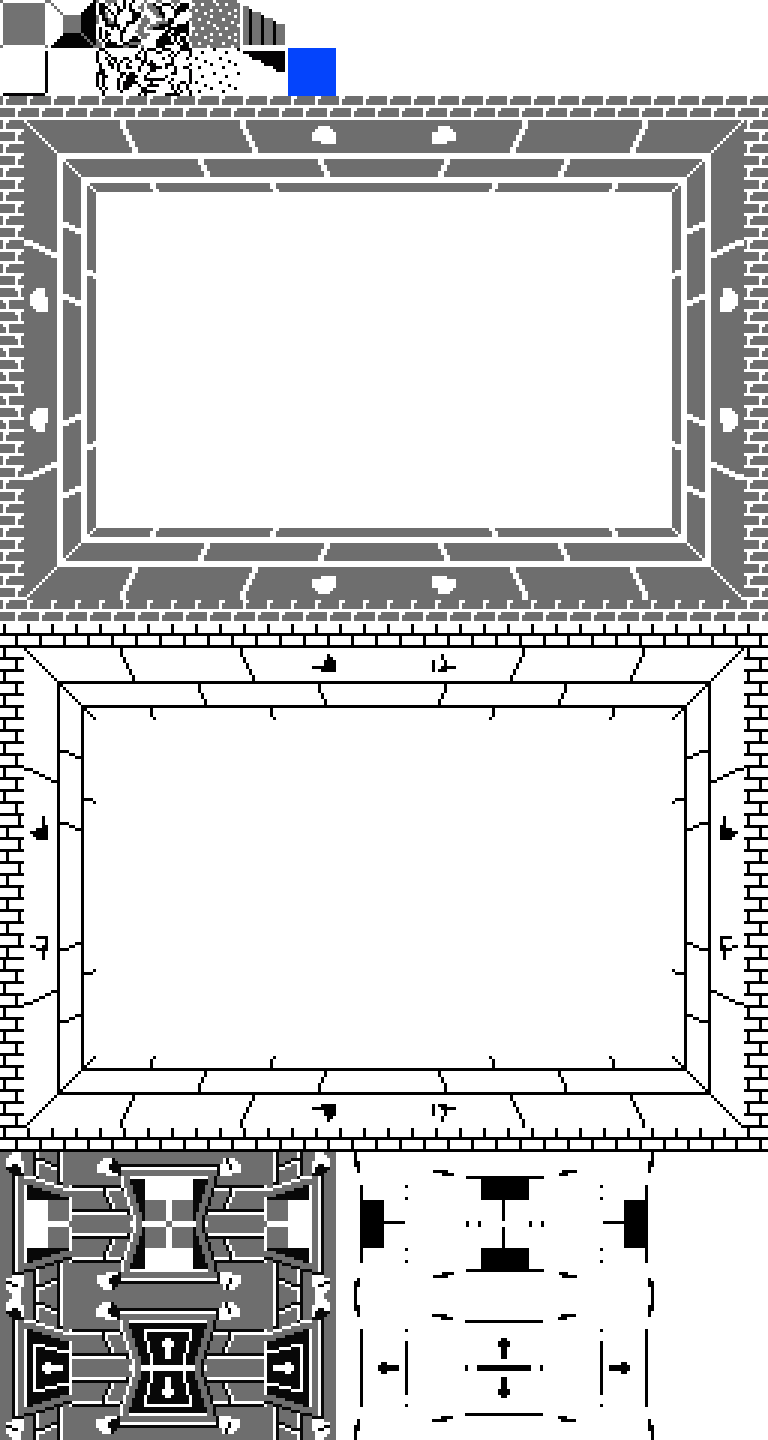
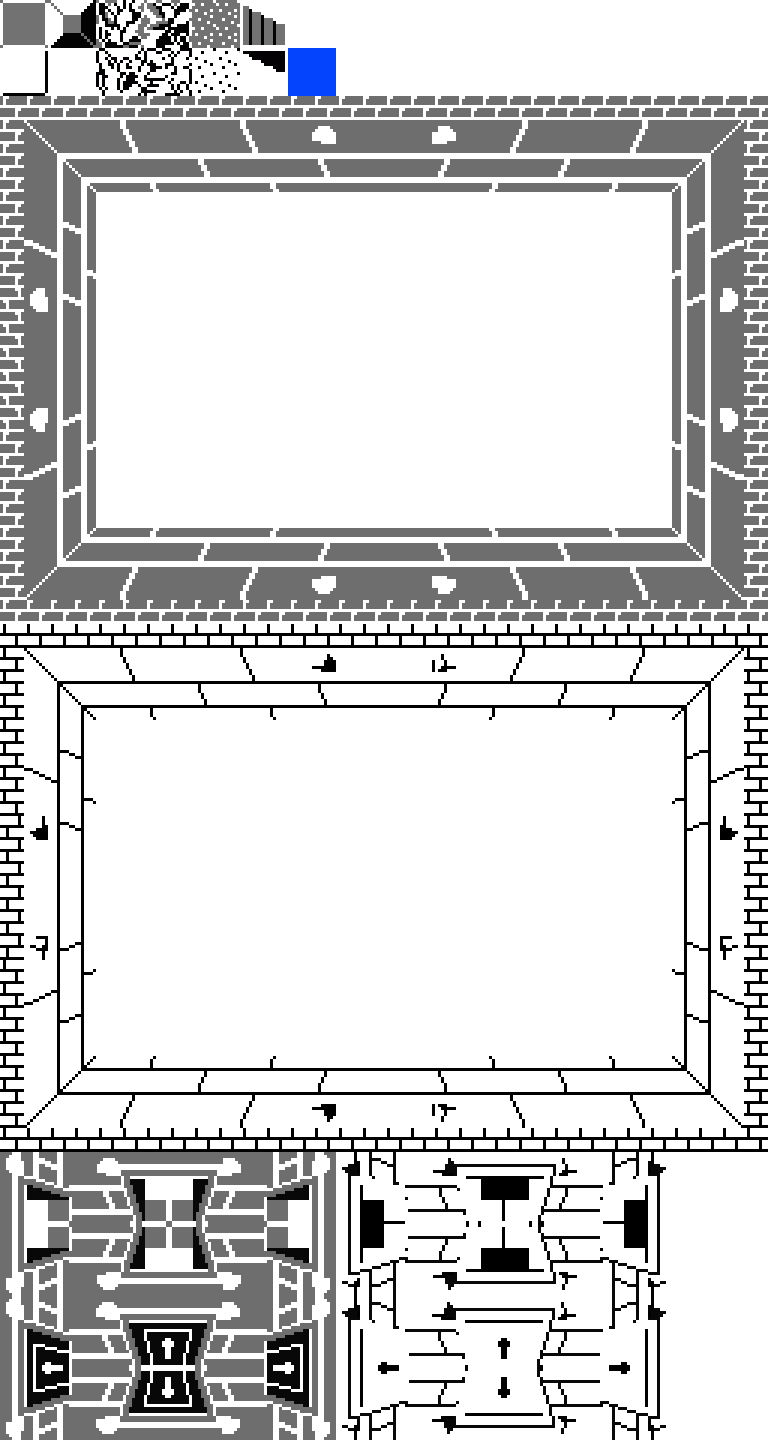
Fix door display
Lines from the walls bled through to the door images which was ugly.
Draw the doors last with a separate fill to fix this issue. Also, edit
the image to darken the lines for the door contrast images.

diff --git a/dist/randomzelda.js b/dist/randomzelda.js
@@ -883,7 +883,6 @@ RZ.Room.prototype = {
         
         context.drawImage(RZ.Assets.img.tiles, walls[0], walls[1], canvas.width, canvas.height, 0, 0, canvas.width, canvas.height);
         this.drawLayer(canvas, RZ.Assets.legend.tiles);
-        this.drawDoors(context, doors);
 
         context.fillStyle = RZ.Screen.color;
         context.globalAlpha = 0.5;
@@ -892,7 +891,7 @@ RZ.Room.prototype = {
 
         this.drawLayer(canvas, RZ.Assets.legend.tiles_contrast);
         context.drawImage(RZ.Assets.img.tiles, walls_contrast[0], walls_contrast[1], canvas.width, canvas.height, 0, 0, canvas.width, canvas.height);
-        this.drawDoors(context, doors_contrast);
+        this.drawDoors(context, doors, doors_contrast);
     },
 
     drawLayer: function (canvas, tiles) {
@@ -915,7 +914,13 @@ RZ.Room.prototype = {
         }
     },
 
-    drawDoors: function (context, doors_legend) {
+    drawDoors: function (context, doors, doors_contrast) {
+        this.drawDoorsLayer(context, doors);
+        this.drawDoorsFillLayer(context, doors);
+        this.drawDoorsLayer(context, doors_contrast);
+    },
+
+    drawDoorsLayer: function (context, doors_legend) {
         var sx, sy, dx, dy, width, height;
 
         for (var door in this.door) {
@@ -927,6 +932,24 @@ RZ.Room.prototype = {
                 width = doors_legend[door][this.door[door]][4];
                 height = doors_legend[door][this.door[door]][5];
                 context.drawImage(RZ.Assets.img.tiles, sx, sy, width, height, dx, dy, width, height);
+            }
+        }
+    },
+
+    drawDoorsFillLayer: function (context, doors_legend) {
+        var dx, dy, width, height;
+
+        for (var door in this.door) {
+            if (this.door[door] === 'open' || this.door[door] === 'locked') {
+                dx = doors_legend[door][this.door[door]][2];
+                dy = doors_legend[door][this.door[door]][3];
+                width = doors_legend[door][this.door[door]][4];
+                height = doors_legend[door][this.door[door]][5];
+
+                context.fillStyle = RZ.Screen.color;
+                context.globalAlpha = 0.5;
+                context.fillRect(dx, dy, width, height);
+                context.globalAlpha = 1.0;
             }
         }
     },

diff --git a/src/room.js b/src/room.js
@@ -45,7 +45,6 @@ RZ.Room.prototype = {
         
         context.drawImage(RZ.Assets.img.tiles, walls[0], walls[1], canvas.width, canvas.height, 0, 0, canvas.width, canvas.height);
         this.drawLayer(canvas, RZ.Assets.legend.tiles);
-        this.drawDoors(context, doors);
 
         context.fillStyle = RZ.Screen.color;
         context.globalAlpha = 0.5;
@@ -54,7 +53,7 @@ RZ.Room.prototype = {
 
         this.drawLayer(canvas, RZ.Assets.legend.tiles_contrast);
         context.drawImage(RZ.Assets.img.tiles, walls_contrast[0], walls_contrast[1], canvas.width, canvas.height, 0, 0, canvas.width, canvas.height);
-        this.drawDoors(context, doors_contrast);
+        this.drawDoors(context, doors, doors_contrast);
     },
 
     drawLayer: function (canvas, tiles) {
@@ -77,7 +76,13 @@ RZ.Room.prototype = {
         }
     },
 
-    drawDoors: function (context, doors_legend) {
+    drawDoors: function (context, doors, doors_contrast) {
+        this.drawDoorsLayer(context, doors);
+        this.drawDoorsFillLayer(context, doors);
+        this.drawDoorsLayer(context, doors_contrast);
+    },
+
+    drawDoorsLayer: function (context, doors_legend) {
         var sx, sy, dx, dy, width, height;
 
         for (var door in this.door) {
@@ -89,6 +94,24 @@ RZ.Room.prototype = {
                 width = doors_legend[door][this.door[door]][4];
                 height = doors_legend[door][this.door[door]][5];
                 context.drawImage(RZ.Assets.img.tiles, sx, sy, width, height, dx, dy, width, height);
+            }
+        }
+    },
+
+    drawDoorsFillLayer: function (context, doors_legend) {
+        var dx, dy, width, height;
+
+        for (var door in this.door) {
+            if (this.door[door] === 'open' || this.door[door] === 'locked') {
+                dx = doors_legend[door][this.door[door]][2];
+                dy = doors_legend[door][this.door[door]][3];
+                width = doors_legend[door][this.door[door]][4];
+                height = doors_legend[door][this.door[door]][5];
+
+                context.fillStyle = RZ.Screen.color;
+                context.globalAlpha = 0.5;
+                context.fillRect(dx, dy, width, height);
+                context.globalAlpha = 1.0;
             }
         }
     },
